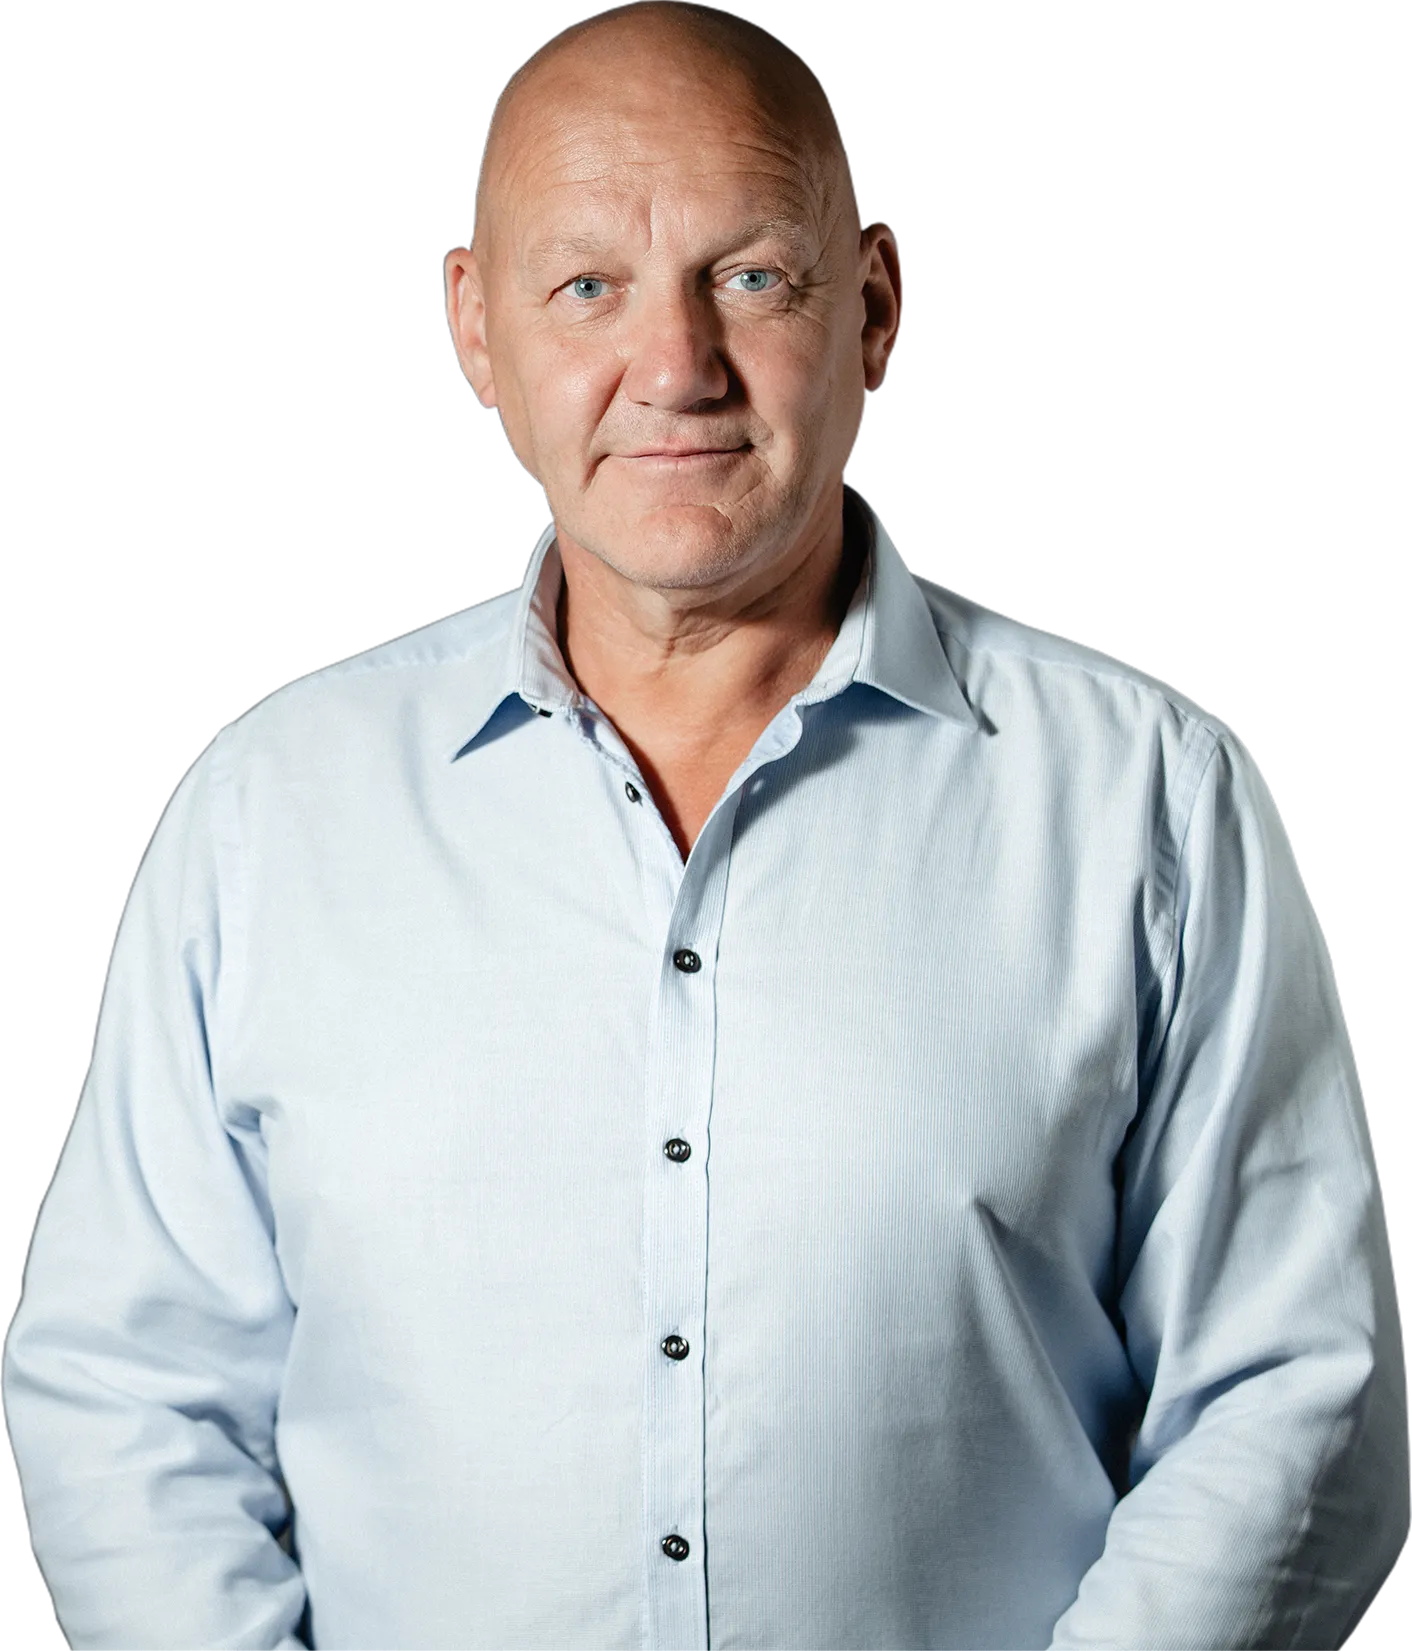
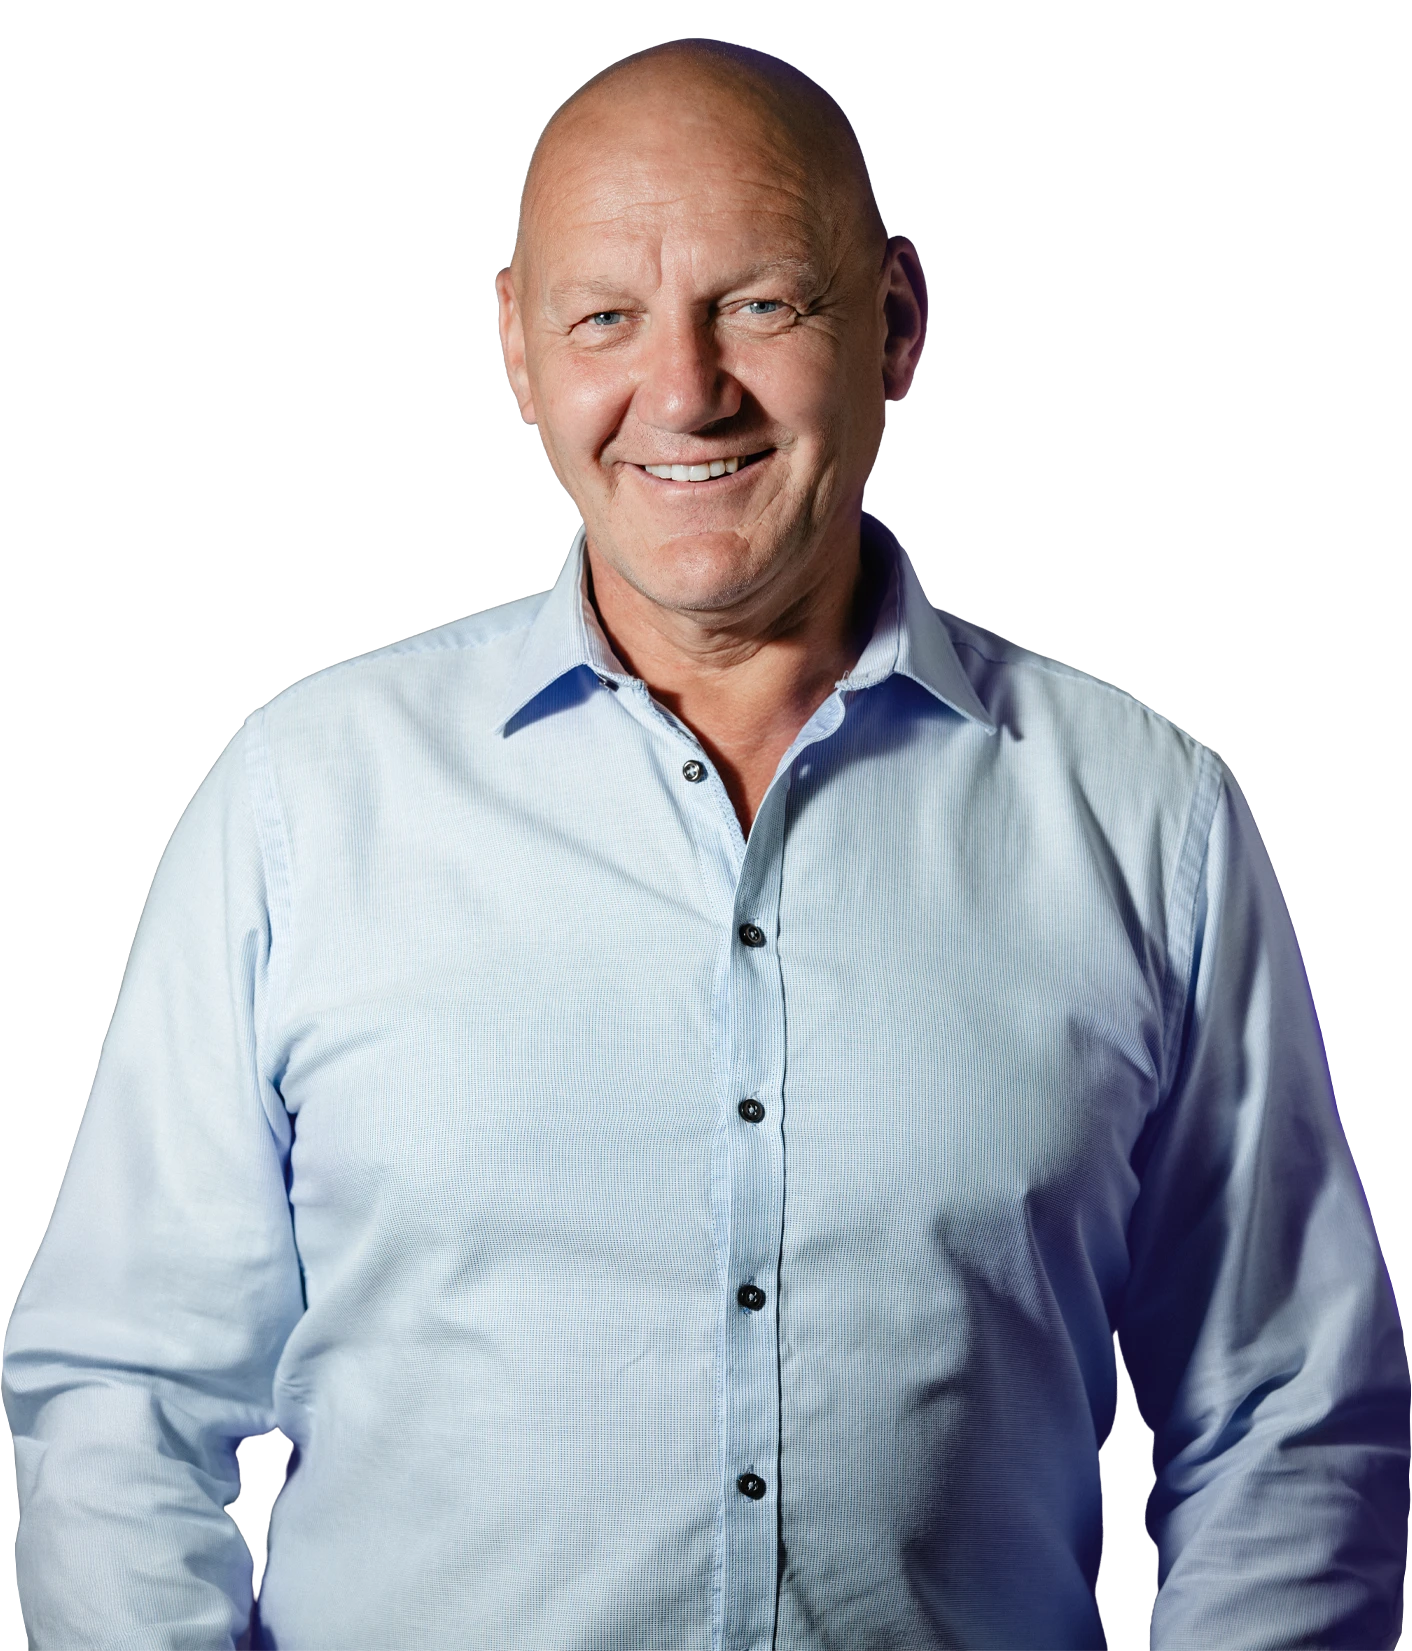
ahaok

diff --git a/src/components/Footer.vue b/src/components/Footer.vue
@@ -19,7 +19,7 @@
             IBAN 00 0100 0000 1234 5678 9100
           </div>
           <div class="text">
-            {{$t('footer.top.ibanText')}}
+            <!-- {{$t('footer.top.ibanText')}} -->
           </div>
           <div class="paymentIcons">
             <NuxtImg src="/images/footer/paypal.svg"/>
@@ -31,8 +31,8 @@
       <div class="footer__bottom">
           <div class="footer__bottom--top">
             <div class="left">
-              <h1>{{ $t('footer.bottom.left.text1') }}</h1>
-              <p>{{ $t('footer.bottom.left.text2') }}</p>
+              <!-- <h1>{{ $t('footer.bottom.left.text1') }}</h1> -->
+              <!-- <p>{{ $t('footer.bottom.left.text2') }}</p> -->
             </div>
             <div class="right">
               <li><NuxtLink to="#About">{{ $t('footer.bottom.right.links.about') }}</NuxtLink></li>
@@ -42,7 +42,7 @@
           </div>
           <hr>
           <div class="footer__bottom--bot">
-            <p>{{$t('footer.bottom.right.text')}}</p>
+            <!-- <p>{{$t('footer.bottom.right.text')}}</p> -->
           </div>
         </div>
       </div>

diff --git a/src/components/Navbar.vue b/src/components/Navbar.vue
@@ -11,9 +11,9 @@
         </div>
         <div class="nav__buttons--navSocials">
           <div class="socials">
-            <NuxtLink to="http://www.x.com"><NuxtImg src="images/navbar/twitter.svg" alt="twitter" class="social"/></NuxtLink>
-            <NuxtLink to="http://www.facebook.com"><NuxtImg src="images/navbar/fb.svg" alt="facebook" class="social"/></NuxtLink>
-            <NuxtLink to="http://www.instagram.com"><NuxtImg src="images/navbar/insta.svg" alt="instagram" class="social"/></NuxtLink>
+            <NuxtLink to=""><NuxtImg src="images/navbar/twitter.svg" alt="twitter" class="social"/></NuxtLink>
+            <NuxtLink to=""><NuxtImg src="images/navbar/fb.svg" alt="facebook" class="social"/></NuxtLink>
+            <NuxtLink to=""><NuxtImg src="images/navbar/insta.svg" alt="instagram" class="social"/></NuxtLink>
           </div>
           <div class="langs">
             <NuxtLink class="lang"@click.prevent="setLocale('en')" :class="{ 'active': locale === 'en' }">EN</NuxtLink>

diff --git a/src/components/Contact.vue b/src/components/Contact.vue
@@ -10,7 +10,7 @@
     </div>
     <div class="contact__wrapper">
       <div class="title">
-        <h2>Your feedback<br/><span>is valuable to me</span></h2>
+        <h2>{{ $t('contact.yourfeedback') }}<br/><span>{{ $t('contact.isvaluable') }}</span></h2>
       </div>
 
       <form @submit.prevent="handleSubmit" class="contact__form">
@@ -26,7 +26,7 @@
 
           <div class="form-row">
             <div class="form-group email-field">
-              <label for="email">Your e-mail <span class="required">*</span></label>
+              <label for="email">{{ $t('contact.yourmail') }} <span class="required">*</span></label>
               <input id="email" v-model="form.email" type="email" required />
             </div>
 

diff --git a/src/layouts/default.vue b/src/layouts/default.vue
@@ -18,7 +18,7 @@
       {
         rel: 'icon',
         type: 'image/x-icon',
-        href: '/favicon.ico'
+        href: '/images/vision/herb.webp'
       },
     ],
   });
@@ -29,12 +29,12 @@
     twitterTitle: pageTitle,
     twitterDescription: pageDescription,
   })
-  defineOgImageComponent('NuxtSeo', {
-    title: pageUrl + '👋',
-    description: pageDescription,
-    theme: '#e13428',
-    colorMode: 'dark',
-  })
+  // defineOgImageComponent('NuxtSeo', {
+  //   title: pageUrl + '👋',
+  //   description: pageDescription,
+  //   theme: '#e13428',
+  //   colorMode: 'dark',
+  // })
 </script>
 
 <template>

diff --git a/nuxt.config.ts b/nuxt.config.ts
@@ -7,6 +7,12 @@ export default defineNuxtConfig({
   css: [
     'assets/scss/style.scss',
   ],
+   app: {
+    head: {
+      title: 'Heiko Zillmann',       // domyślny tytuł
+      titleTemplate: '%s'            // usuwa "| nuxt-starter"
+    }
+  },
 
   modules: [ 
     '@nuxtjs/seo',
@@ -22,7 +28,7 @@ export default defineNuxtConfig({
     defaultLocale: 'de',
   },
   site: {
-    url: '',
+    url: 'heiko-zillmann.de',
   },
 
   robots: { robotsTxt: false },

diff --git a/src/assets/scss/components/_header.scss b/src/assets/scss/components/_header.scss
@@ -126,10 +126,10 @@
     }
   }
   .main-image{
-    top:0;
+    top:-13px;
     left:51%;
     transform: translateX(-50%);
-    width:430px;
+    width:460px;
   }
   .building, .herb{
     width:50%;

diff --git a/src/assets/scss/layout/_navbar.scss b/src/assets/scss/layout/_navbar.scss
@@ -81,6 +81,7 @@
           align-items: center;
           .social{
             height:1.7rem;
+            cursor:not-allowed;
           }
         }
         .langs{
